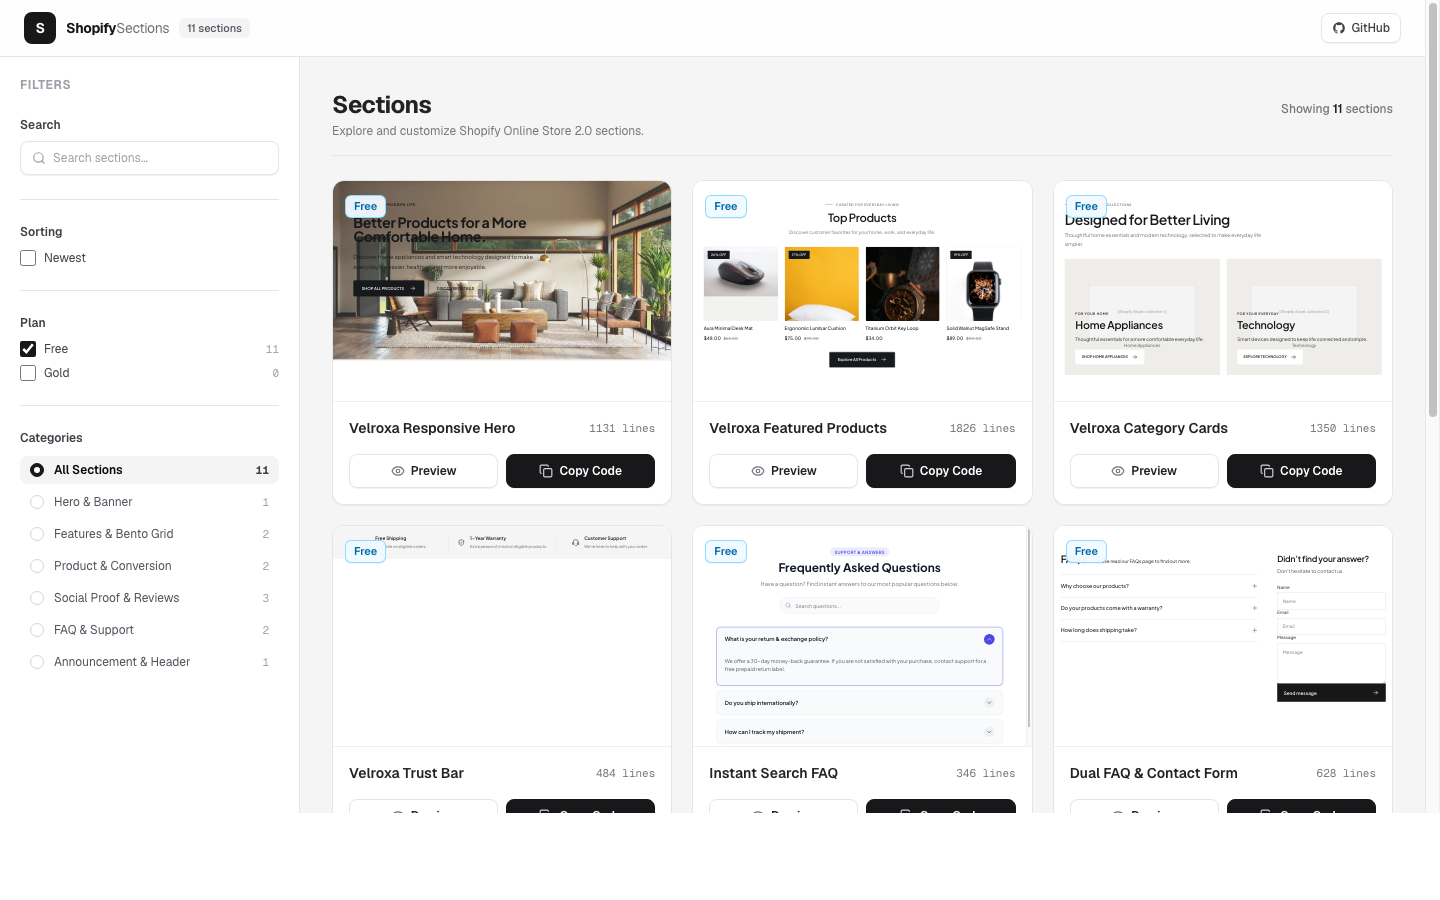
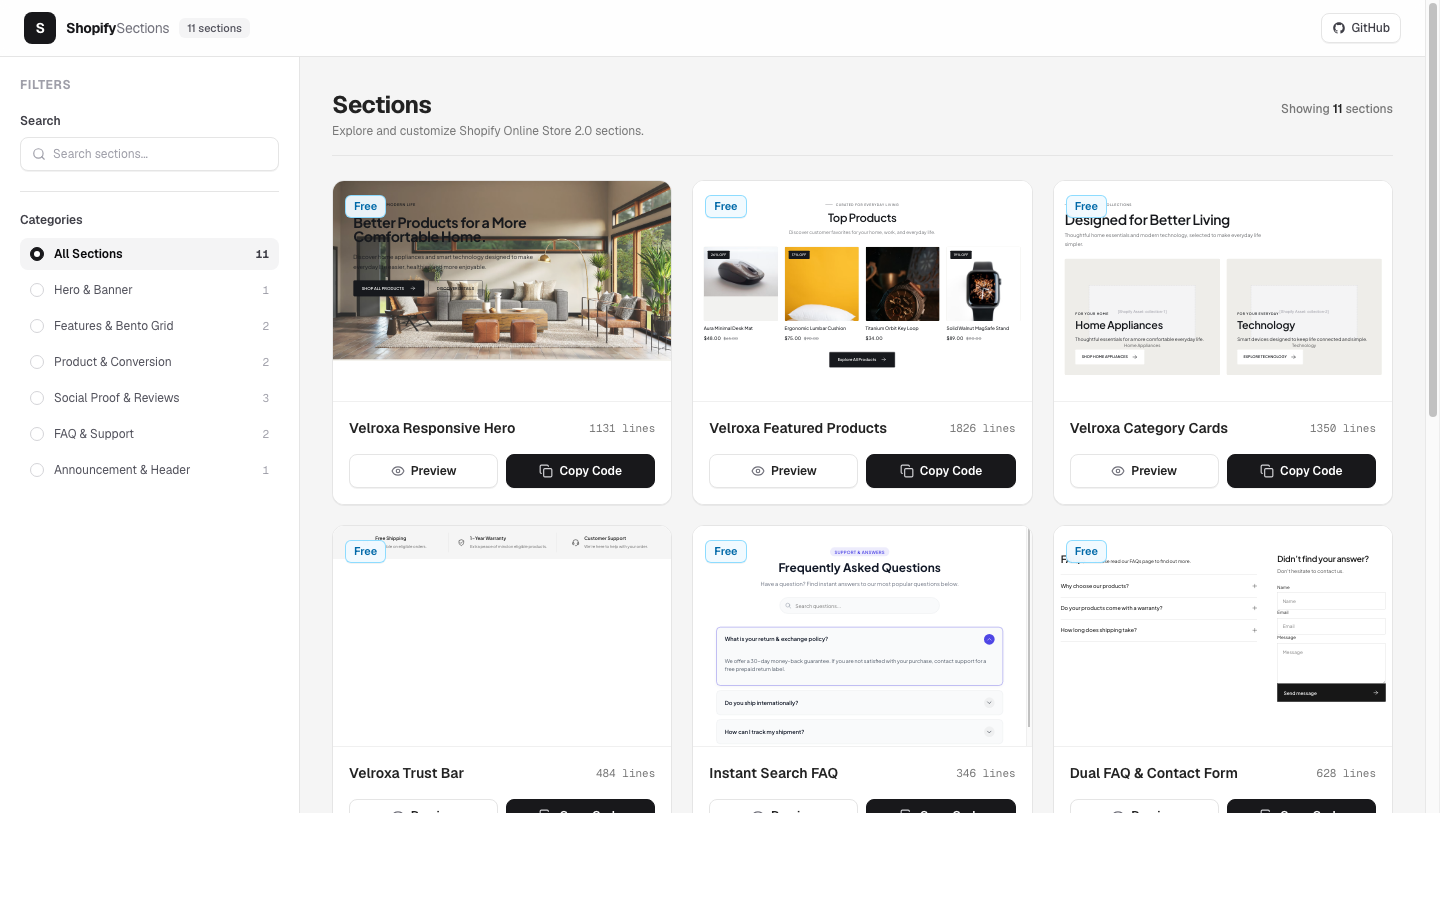
refactor: simplify sidebar by removing sorting and plan checkboxes, keeping only search and category list

Changed region(s): [[0.0, 0.1244, 0.1875, 0.56], [0.0312, 0.5911, 0.125, 0.7467]]

diff --git a/src/components/layout/SectionMarketplace.tsx b/src/components/layout/SectionMarketplace.tsx
@@ -16,8 +16,6 @@ interface SectionMarketplaceProps {
 
 export function SectionMarketplace({ initialSections }: SectionMarketplaceProps) {
   const [searchQuery, setSearchQuery] = useState("");
-  const [isNewestSorted, setIsNewestSorted] = useState(false);
-  const [selectedPlans, setSelectedPlans] = useState<string[]>(["free"]);
   const [activeCategory, setActiveCategory] = useState("all");
   const [previewSection, setPreviewSection] = useState<SectionItem | null>(null);
   const [isMobileFiltersOpen, setIsMobileFiltersOpen] = useState(false);
@@ -38,80 +36,49 @@ export function SectionMarketplace({ initialSections }: SectionMarketplaceProps)
     return counts;
   }, [initialSections]);
 
-  const handleTogglePlan = (plan: string) => {
-    setSelectedPlans((prev) =>
-      prev.includes(plan) ? prev.filter((p) => p !== plan) : [...prev, plan]
-    );
-  };
-
   const handleClearAll = () => {
     setSearchQuery("");
-    setIsNewestSorted(false);
-    setSelectedPlans(["free"]);
     setActiveCategory("all");
   };
 
-  const isFilterActive =
-    searchQuery.trim() !== "" ||
-    isNewestSorted ||
-    activeCategory !== "all" ||
-    !selectedPlans.includes("free") ||
-    selectedPlans.includes("gold");
+  const isFilterActive = searchQuery.trim() !== "" || activeCategory !== "all";
 
   const activeFilterCount =
-    (searchQuery.trim() ? 1 : 0) +
-    (isNewestSorted ? 1 : 0) +
-    (activeCategory !== "all" ? 1 : 0) +
-    (selectedPlans.length !== 1 || !selectedPlans.includes("free") ? 1 : 0);
+    (searchQuery.trim() ? 1 : 0) + (activeCategory !== "all" ? 1 : 0);
 
-  // Filter and sort sections
+  // Filter sections by category and search query
   const filteredSections = useMemo(() => {
-    return initialSections
-      .filter((item) => {
-        // 1. Category filter
-        if (activeCategory !== "all" && item.category !== activeCategory) {
-          return false;
-        }
+    return initialSections.filter((item) => {
+      // 1. Category filter
+      if (activeCategory !== "all" && item.category !== activeCategory) {
+        return false;
+      }
 
-        // 2. Plan filter
-        if (selectedPlans.length > 0 && !selectedPlans.includes(item.plan)) {
-          return false;
-        }
-        if (selectedPlans.length === 0) {
-          return false;
-        }
+      // 2. Search query filter
+      if (searchQuery.trim() !== "") {
+        const q = searchQuery.toLowerCase().trim();
+        const matchesTitle = item.title.toLowerCase().includes(q);
+        const matchesTitleVi = item.titleVi.toLowerCase().includes(q);
+        const matchesDesc = item.description.toLowerCase().includes(q);
+        const matchesDescVi = item.descriptionVi.toLowerCase().includes(q);
+        const matchesPreset = item.presetName.toLowerCase().includes(q);
+        const matchesFilename = item.filename.toLowerCase().includes(q);
+        const matchesTags = item.tags.some((t) => t.toLowerCase().includes(q));
 
-        // 3. Search query filter
-        if (searchQuery.trim() !== "") {
-          const q = searchQuery.toLowerCase().trim();
-          const matchesTitle = item.title.toLowerCase().includes(q);
-          const matchesTitleVi = item.titleVi.toLowerCase().includes(q);
-          const matchesDesc = item.description.toLowerCase().includes(q);
-          const matchesDescVi = item.descriptionVi.toLowerCase().includes(q);
-          const matchesPreset = item.presetName.toLowerCase().includes(q);
-          const matchesFilename = item.filename.toLowerCase().includes(q);
-          const matchesTags = item.tags.some((t) => t.toLowerCase().includes(q));
+        return (
+          matchesTitle ||
+          matchesTitleVi ||
+          matchesDesc ||
+          matchesDescVi ||
+          matchesPreset ||
+          matchesFilename ||
+          matchesTags
+        );
+      }
 
-          return (
-            matchesTitle ||
-            matchesTitleVi ||
-            matchesDesc ||
-            matchesDescVi ||
-            matchesPreset ||
-            matchesFilename ||
-            matchesTags
-          );
-        }
-
-        return true;
-      })
-      .sort((a, b) => {
-        if (isNewestSorted) {
-          return new Date(b.updatedAt).getTime() - new Date(a.updatedAt).getTime();
-        }
-        return 0;
-      });
-  }, [initialSections, activeCategory, selectedPlans, searchQuery, isNewestSorted]);
+      return true;
+    });
+  }, [initialSections, activeCategory, searchQuery]);
 
   const handleCopySuccess = (sectionTitle: string) => {
     setToastMessage(`Liquid code copied! (${sectionTitle})`);
@@ -133,10 +100,6 @@ export function SectionMarketplace({ initialSections }: SectionMarketplaceProps)
           <SectionSidebar
             searchQuery={searchQuery}
             onSearchChange={setSearchQuery}
-            isNewestSorted={isNewestSorted}
-            onToggleNewest={setIsNewestSorted}
-            selectedPlans={selectedPlans}
-            onTogglePlan={handleTogglePlan}
             activeCategory={activeCategory}
             onSelectCategory={setActiveCategory}
             categoryCounts={categoryCounts}
@@ -164,10 +127,6 @@ export function SectionMarketplace({ initialSections }: SectionMarketplaceProps)
         onClose={() => setIsMobileFiltersOpen(false)}
         searchQuery={searchQuery}
         onSearchChange={setSearchQuery}
-        isNewestSorted={isNewestSorted}
-        onToggleNewest={setIsNewestSorted}
-        selectedPlans={selectedPlans}
-        onTogglePlan={handleTogglePlan}
         activeCategory={activeCategory}
         onSelectCategory={setActiveCategory}
         categoryCounts={categoryCounts}

diff --git a/src/components/layout/SectionSidebar.tsx b/src/components/layout/SectionSidebar.tsx
@@ -7,10 +7,6 @@ import { CATEGORIES } from "@/data/categories";
 interface SectionSidebarProps {
   searchQuery: string;
   onSearchChange: (q: string) => void;
-  isNewestSorted: boolean;
-  onToggleNewest: (val: boolean) => void;
-  selectedPlans: string[];
-  onTogglePlan: (plan: string) => void;
   activeCategory: string;
   onSelectCategory: (id: string) => void;
   categoryCounts: Record<string, number>;
@@ -21,10 +17,6 @@ interface SectionSidebarProps {
 export function SectionSidebar({
   searchQuery,
   onSearchChange,
-  isNewestSorted,
-  onToggleNewest,
-  selectedPlans,
-  onTogglePlan,
   activeCategory,
   onSelectCategory,
   categoryCounts,
@@ -32,7 +24,7 @@ export function SectionSidebar({
   isFilterActive,
 }: SectionSidebarProps) {
   return (
-    <aside className="w-full flex flex-col gap-6 p-4 sm:p-5 text-sm">
+    <aside className="w-full flex flex-col gap-5 p-4 sm:p-5 text-sm">
       {/* Top row: Title + Clear all */}
       <div className="flex items-center justify-between">
         <span className="font-bold text-xs uppercase tracking-wider text-zinc-400">
@@ -77,59 +69,7 @@ export function SectionSidebar({
 
       <hr className="border-[#E5E5E5]" />
 
-      {/* 2. Sorting */}
-      <div className="flex flex-col gap-2.5">
-        <span className="font-semibold text-xs text-zinc-700">Sorting</span>
-        <label className="flex items-center gap-2 cursor-pointer text-xs text-zinc-700 hover:text-zinc-950 transition select-none">
-          <input
-            type="checkbox"
-            checked={isNewestSorted}
-            onChange={(e) => onToggleNewest(e.target.checked)}
-            className="h-4 w-4 rounded border-[#D4D4D8] text-zinc-900 accent-zinc-900 focus:ring-0 cursor-pointer"
-          />
-          <span>Newest</span>
-        </label>
-      </div>
-
-      <hr className="border-[#E5E5E5]" />
-
-      {/* 3. Plan */}
-      <div className="flex flex-col gap-2.5">
-        <span className="font-semibold text-xs text-zinc-700">Plan</span>
-        <div className="flex flex-col gap-2">
-          {/* Free Checkbox */}
-          <label className="flex items-center justify-between cursor-pointer text-xs text-zinc-700 hover:text-zinc-950 transition select-none">
-            <div className="flex items-center gap-2">
-              <input
-                type="checkbox"
-                checked={selectedPlans.includes("free")}
-                onChange={() => onTogglePlan("free")}
-                className="h-4 w-4 rounded border-[#D4D4D8] text-zinc-900 accent-zinc-900 focus:ring-0 cursor-pointer"
-              />
-              <span>Free</span>
-            </div>
-            <span className="text-[11px] text-zinc-400 font-mono">11</span>
-          </label>
-
-          {/* Gold Checkbox */}
-          <label className="flex items-center justify-between cursor-pointer text-xs text-zinc-700 hover:text-zinc-950 transition select-none">
-            <div className="flex items-center gap-2">
-              <input
-                type="checkbox"
-                checked={selectedPlans.includes("gold")}
-                onChange={() => onTogglePlan("gold")}
-                className="h-4 w-4 rounded border-[#D4D4D8] text-zinc-900 accent-zinc-900 focus:ring-0 cursor-pointer"
-              />
-              <span>Gold</span>
-            </div>
-            <span className="text-[11px] text-zinc-400 font-mono">0</span>
-          </label>
-        </div>
-      </div>
-
-      <hr className="border-[#E5E5E5]" />
-
-      {/* 4. Categories (Radio style) */}
+      {/* 2. Categories (Radio style) */}
       <div className="flex flex-col gap-2.5">
         <span className="font-semibold text-xs text-zinc-700">Categories</span>
         <div className="flex flex-col gap-1">
@@ -141,7 +81,7 @@ export function SectionSidebar({
               <button
                 key={cat.id}
                 onClick={() => onSelectCategory(cat.id)}
-                className={`group flex items-center justify-between rounded-lg px-2.5 py-1.5 text-xs text-left transition select-none ${
+                className={`group flex items-center justify-between rounded-lg px-2.5 py-2 text-xs text-left transition select-none ${
                   isSelected
                     ? "bg-zinc-100 font-semibold text-zinc-950"
                     : "text-zinc-600 hover:bg-zinc-50 hover:text-zinc-900 font-normal"

diff --git a/src/components/layout/MobileFilterDrawer.tsx b/src/components/layout/MobileFilterDrawer.tsx
@@ -9,10 +9,6 @@ interface MobileFilterDrawerProps {
   onClose: () => void;
   searchQuery: string;
   onSearchChange: (q: string) => void;
-  isNewestSorted: boolean;
-  onToggleNewest: (val: boolean) => void;
-  selectedPlans: string[];
-  onTogglePlan: (plan: string) => void;
   activeCategory: string;
   onSelectCategory: (id: string) => void;
   categoryCounts: Record<string, number>;
@@ -25,10 +21,6 @@ export function MobileFilterDrawer({
   onClose,
   searchQuery,
   onSearchChange,
-  isNewestSorted,
-  onToggleNewest,
-  selectedPlans,
-  onTogglePlan,
   activeCategory,
   onSelectCategory,
   categoryCounts,
@@ -60,7 +52,7 @@ export function MobileFilterDrawer({
       <div className="fixed inset-y-0 left-0 w-full max-w-xs bg-white shadow-2xl flex flex-col z-50 animate-in slide-in-from-left duration-200">
         {/* Drawer header */}
         <div className="flex h-14 items-center justify-between border-b border-[#E5E5E5] px-4">
-          <span className="font-bold text-sm text-zinc-900">Filters &amp; Search</span>
+          <span className="font-bold text-sm text-zinc-900">Filters &amp; Categories</span>
           <button
             onClick={onClose}
             className="rounded-lg p-1.5 text-zinc-400 hover:text-zinc-600 transition"
@@ -75,10 +67,6 @@ export function MobileFilterDrawer({
           <SectionSidebar
             searchQuery={searchQuery}
             onSearchChange={onSearchChange}
-            isNewestSorted={isNewestSorted}
-            onToggleNewest={onToggleNewest}
-            selectedPlans={selectedPlans}
-            onTogglePlan={onTogglePlan}
             activeCategory={activeCategory}
             onSelectCategory={(id) => {
               onSelectCategory(id);

diff --git a/src/components/ui/Toast.tsx b/src/components/ui/Toast.tsx
@@ -28,3 +28,4 @@ export function Toast({ message, onClose }: ToastProps) {
     </div>
   );
 }
+

diff --git a/src/components/sections/SectionPreviewModal.tsx b/src/components/sections/SectionPreviewModal.tsx
@@ -172,3 +172,4 @@ export function SectionPreviewModal({
     </div>
   );
 }
+

diff --git a/src/components/layout/AppHeader.tsx b/src/components/layout/AppHeader.tsx
@@ -74,3 +74,4 @@ export function AppHeader({
     </header>
   );
 }
+

diff --git a/src/components/sections/SectionGrid.tsx b/src/components/sections/SectionGrid.tsx
@@ -76,3 +76,4 @@ export function SectionGrid({
     </div>
   );
 }
+
